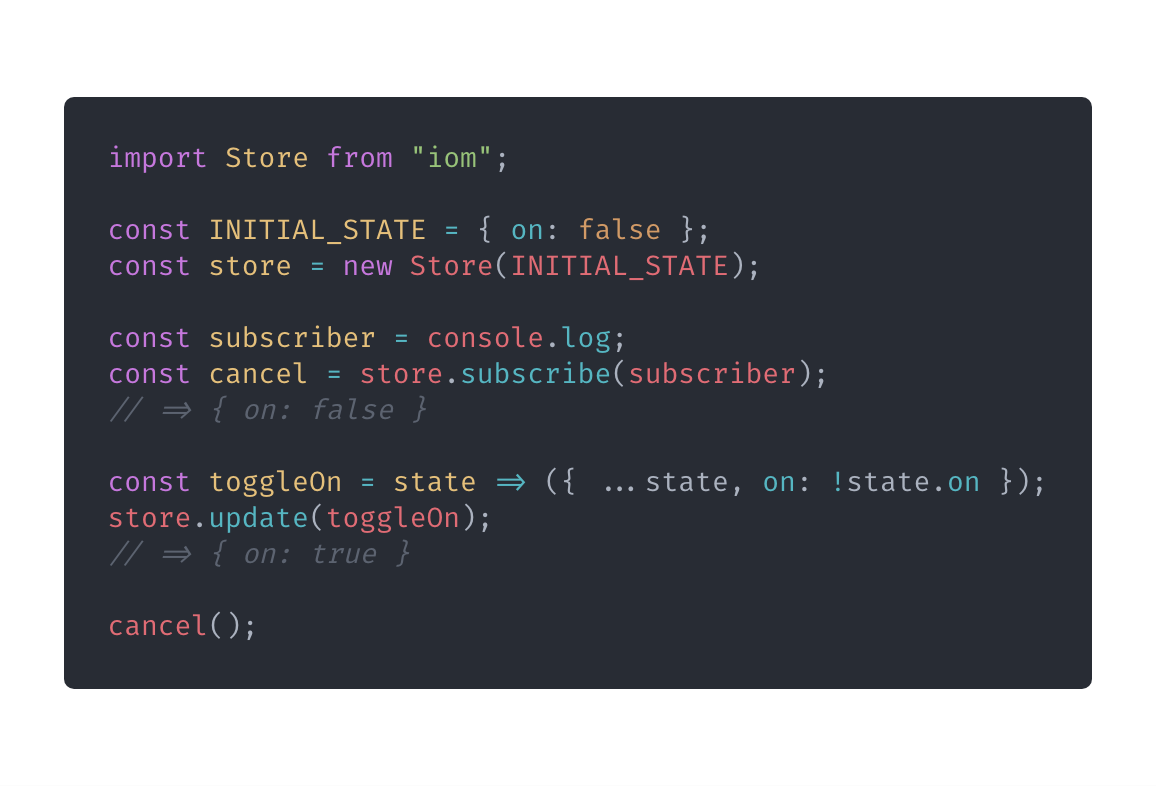
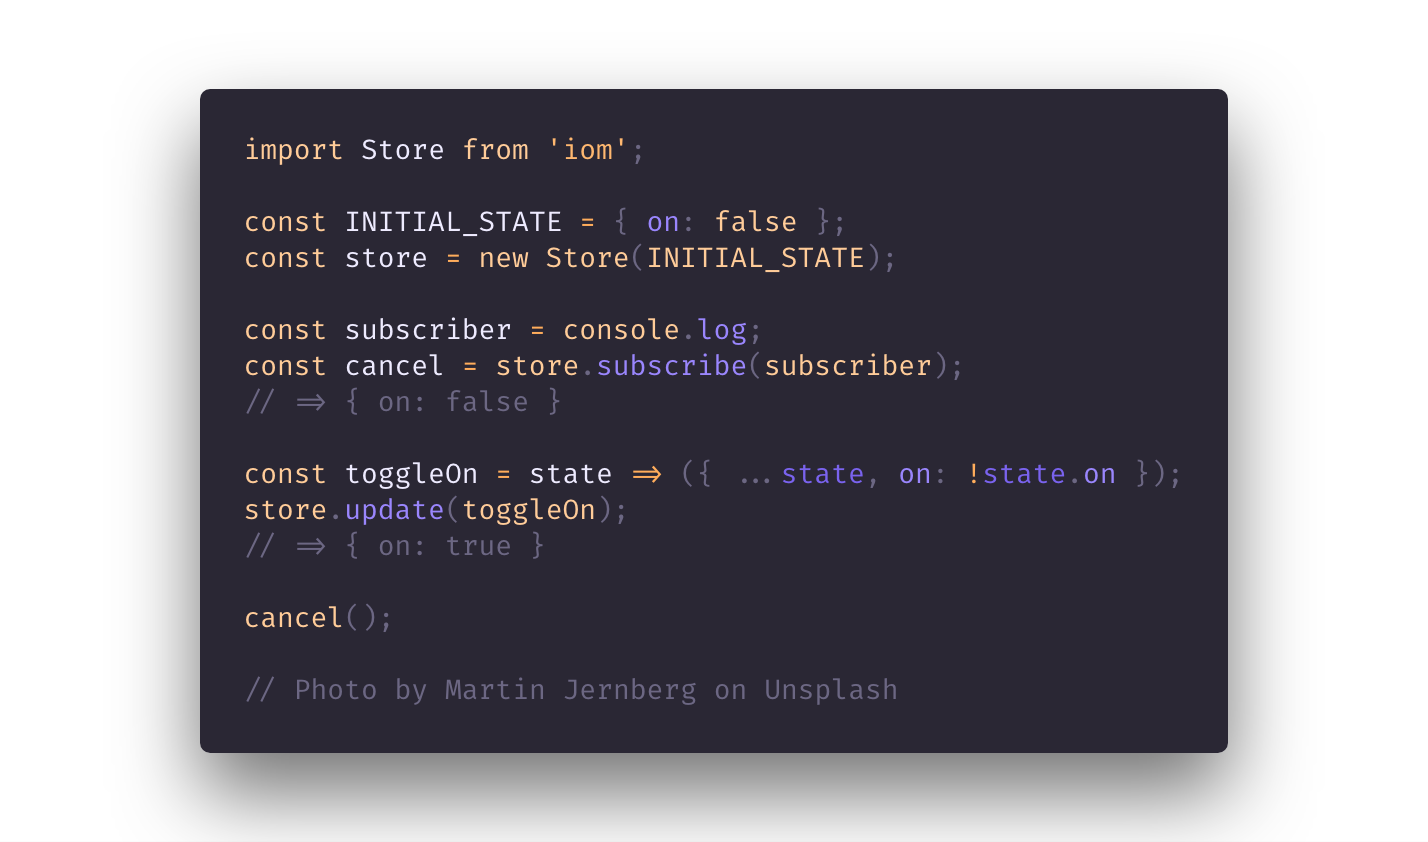
docs: try another screenshot for better readability

diff --git a/README.md b/README.md
@@ -1,7 +1,7 @@
 <!--
   This file was generated by emdaer
 
-  Its template can be found at /Users/flipactual/Dev/iom/.emdaer/README.emdaer.md
+  Its template can be found at .emdaer/README.emdaer.md
 -->
 
 <!--
